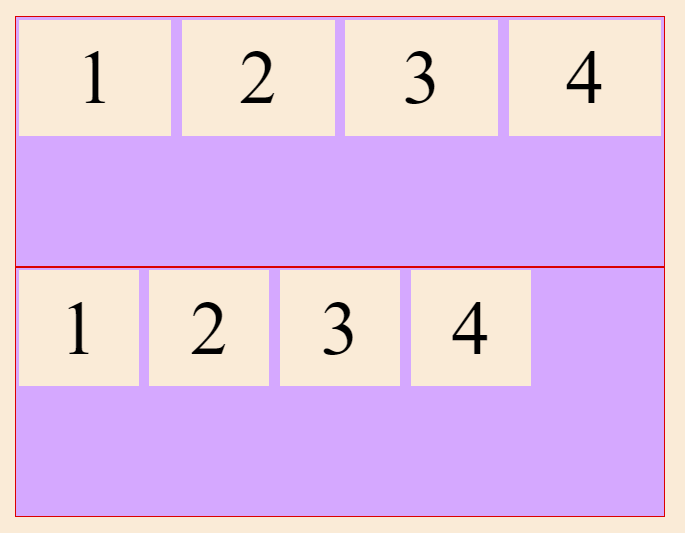
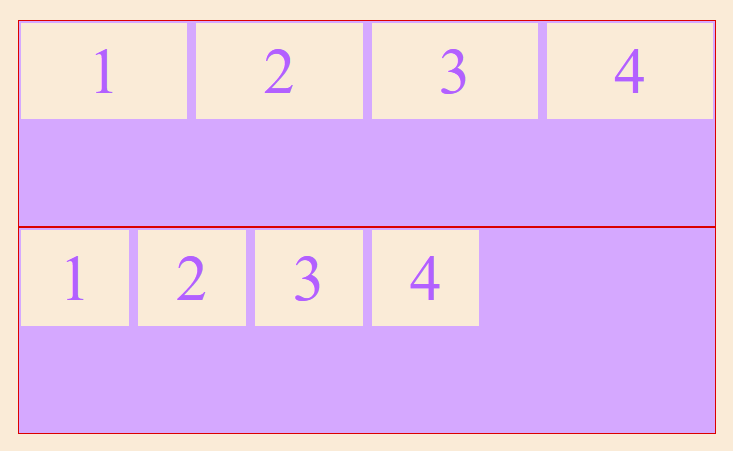
images updated

diff --git a/index.html b/index.html
@@ -5,6 +5,8 @@
     <meta http-equiv="X-UA-Compatible" content="IE=edge" />
     <meta name="viewport" content="width=device-width, initial-scale=1.0" />
     <link rel="stylesheet" href="./tutorial_index_style.css">
+    <link rel="icon" href="./Grid-style/img4_index/atashi-no-icon.png">
+
     <title>GRID INDEX</title>
   </head>
   <body>

diff --git a/Grid-style/styles/4p_style2.css b/Grid-style/styles/4p_style2.css
@@ -1,13 +1,15 @@
 /* General styling */
 html, body {
-    background-color: #ffeead;
+    background-color: antiquewhite;
     margin: 10px;
     font-size: 21px;
+    color: rgb(0, 32, 8);
 }
 
 p {
-    color: #96ceb4;
+    color: rgb(0, 126, 52);
     text-align: center;
+    text-decoration: underline;
 }
 
 .flexbox_header > div {

diff --git a/newindex.html b/newindex.html
@@ -1,0 +1,15 @@
+<!DOCTYPE html>
+<html lang="en">
+<head>
+  <meta charset="UTF-8">
+  <meta http-equiv="X-UA-Compatible" content="IE=edge">
+  <meta name="viewport" content="width=device-width, initial-scale=1.0">
+  <title>test</title>
+</head>
+<body>
+  <div class="container">
+    
+  </div>
+  
+</body>
+</html>

diff --git a/Grid-style/3named_lines.html b/Grid-style/3named_lines.html
@@ -5,7 +5,7 @@
     <meta http-equiv="X-UA-Compatible" content="IE=edge">
     <meta name="viewport" content="width=device-width, initial-scale=1.0">
     <link rel="stylesheet" href="./styles/3p_style1.css">
-    <title>named Lines 3.1</title>
+    <title>Named Lines</title>
 </head>
 <body>
 

diff --git a/Grid-style/styles/3p_style1.css b/Grid-style/styles/3p_style1.css
@@ -14,6 +14,7 @@ html, body {
     align-items: center;
     font-size: 23px;
     background-color: rgb(58, 58, 187);
+    font-size: 2rem;
 }
 
 /* Grid stuff - for past layout GOTO grid_pos.html*/

diff --git a/Grid-style/styles/4p_style1.css b/Grid-style/styles/4p_style1.css
@@ -47,5 +47,5 @@ div {
 div > div {
     margin: 2px;
     background-color: antiquewhite;
-    color: black;
+    color: rgb(178, 96, 255);
 }
